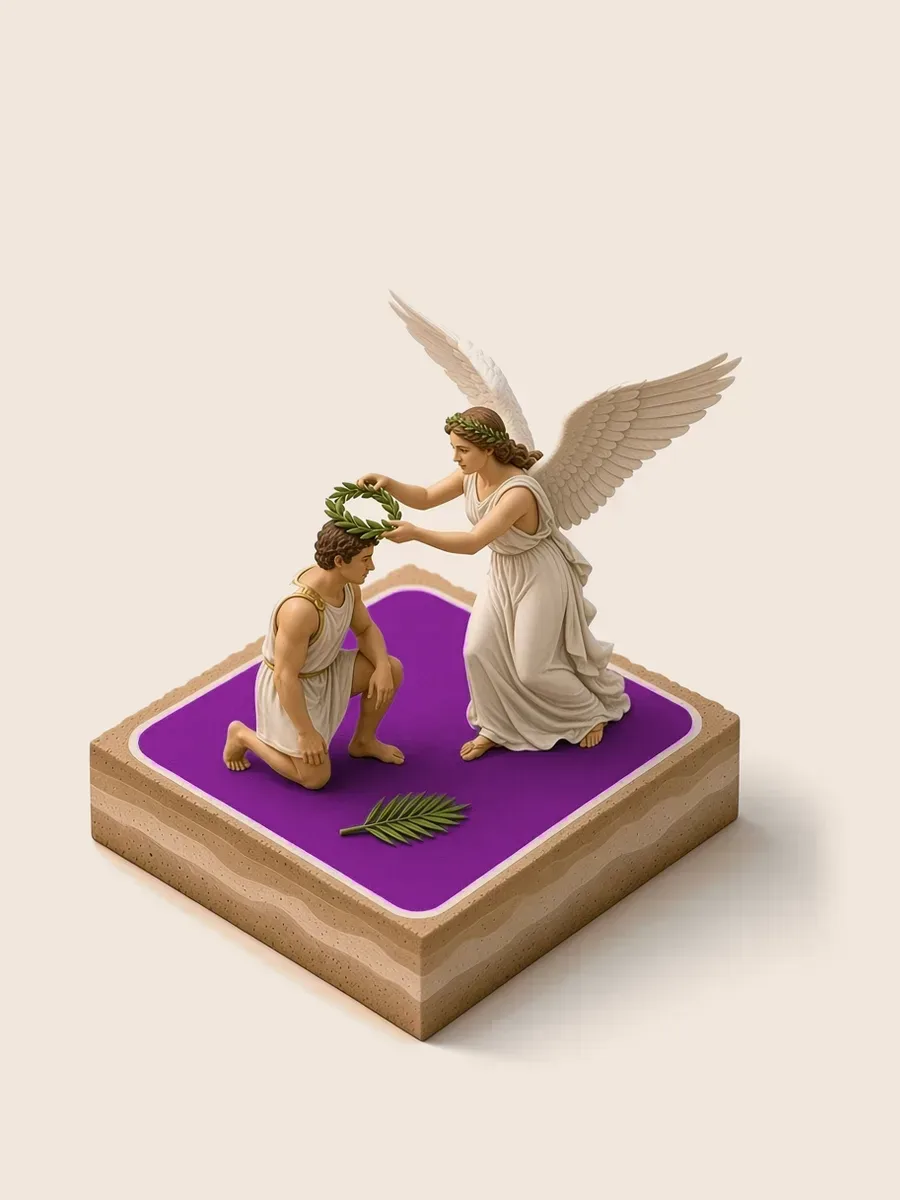
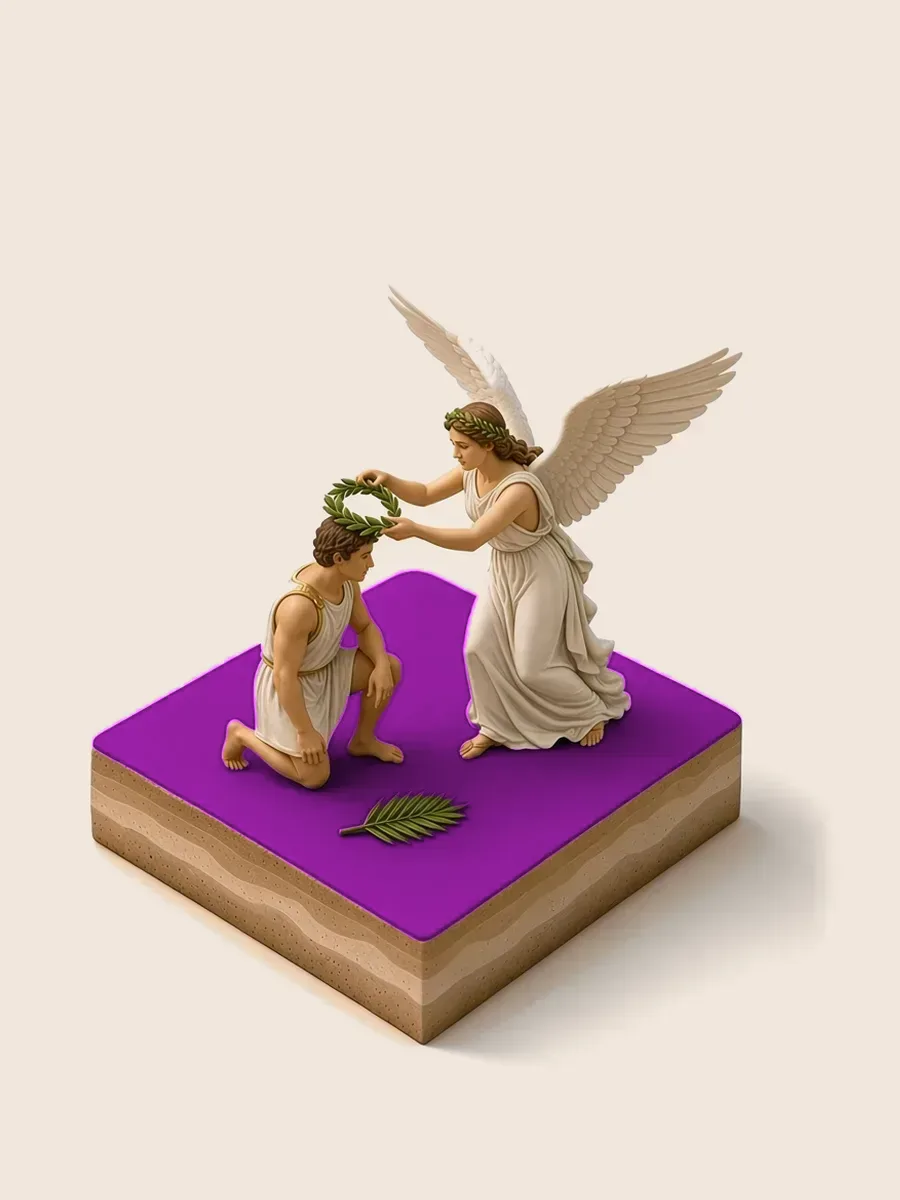
第七批插画：九张新卡，并重画 vinc。 (#10)
temp、ver、jud、jur、liber、grav、lev、fort、nav 换成插画。vinc 换成胜利女神戴冠的新图。有插画的词根一共 109 条。词条列表不改。

diff --git a/src/data/rootColors.ts b/src/data/rootColors.ts
@@ -107,10 +107,19 @@ export const rootColors: Record<string, RootColor> = {
   terr: { hue: 35.4, accent: '#D78671', deep: '#7E4334', wash: '#FFEBE5', skyTop: '#FFE0D8', skyBottom: '#FEF5ED', spark: '#88CADA', steps: ['#FEF9F8', '#FCF3F1', '#FFEBE5', '#FFE4DD', '#FEDAD1', '#FCCFC3', '#F2B5A5', '#E39A87', '#D78671', '#B9705D', '#7E4334', '#542B21'] },
   tort: { hue: 44.8, accent: '#D48866', deep: '#7C452B', wash: '#FFEBE3', skyTop: '#FFE1D3', skyBottom: '#FDF6EC', spark: '#8CC8E0', steps: ['#FEF9F8', '#FCF3F0', '#FFEBE3', '#FEE5DA', '#FDDBCD', '#FAD0BE', '#F0B79E', '#E19D7E', '#D48866', '#B77354', '#7C452B', '#532D1B'] },
   val: { hue: 144.9, accent: '#73AF75', deep: '#356237', wash: '#E6F5E6', skyTop: '#D8EFD8', skyBottom: '#EDFAF6', spark: '#D5AFD7', steps: ['#F8FBF8', '#F1F7F1', '#E6F5E6', '#DEF1DE', '#D3EBD2', '#C5E4C5', '#A8D3A8', '#8ABF8B', '#73AF75', '#5F9661', '#356237', '#224123'] },
-  vinc: { hue: 324.3, accent: '#BF87C3', deep: '#6D4470', wash: '#F9EAF9', skyTop: '#F6DFF7', skyBottom: '#FFF3F7', spark: '#A3CAA2', steps: ['#FCF9FC', '#F9F3F9', '#F9EAF9', '#F6E4F7', '#F2DAF3', '#EDCFEF', '#DFB6E1', '#CD9BD0', '#BF87C3', '#A472A8', '#6D4470', '#482C4A'] },
+  vinc: { hue: 323.8, accent: '#BE87C3', deep: '#6C4470', wash: '#F9EAFA', skyTop: '#F6DFF7', skyBottom: '#FFF3F7', spark: '#A3CAA1', steps: ['#FCF9FC', '#F9F3F9', '#F9EAFA', '#F6E4F7', '#F2DAF4', '#EDCFEF', '#DEB6E2', '#CC9BD1', '#BE87C3', '#A472A8', '#6C4470', '#482C4B'] },
   viv: { hue: 139.3, accent: '#7BAE6E', deep: '#3B6131', wash: '#E8F4E4', skyTop: '#DBEFD5', skyBottom: '#EEFAF5', spark: '#D2B0DB', steps: ['#F9FBF8', '#F2F7F1', '#E8F4E4', '#E0F0DC', '#D5EBD0', '#C9E4C2', '#ADD2A4', '#91BE85', '#7BAE6E', '#67955B', '#3B6131', '#26401F'] },
   volv: { hue: 90.4, accent: '#CBAE5E', deep: '#695305', wash: '#F6F0DD', skyTop: '#F2E7CA', skyBottom: '#F5F8ED', spark: '#ACBCEC', steps: ['#FCFAF7', '#F8F5EE', '#F6F0DD', '#F3EAD3', '#EEE3C4', '#E8DAB2', '#D8C48E', '#C5AD69', '#CBAE5E', '#9D843A', '#695305', '#453609'] },
   fid: { hue: 257.4, accent: '#74A0DF', deep: '#365684', wash: '#E7F1FF', skyTop: '#DAE9FF', skyBottom: '#F6F6FF', spark: '#D7B98B', steps: ['#F8FBFE', '#F1F6FC', '#E7F1FF', '#DFECFF', '#D3E5FF', '#C4DCFF', '#A7C8F7', '#8AB1E9', '#74A0DF', '#6088C1', '#365684', '#223958'] },
+  temp: { hue: 197.4, accent: '#37B2B5', deep: '#006264', wash: '#DEF5F6', skyTop: '#CAF1F1', skyBottom: '#EDF9FF', spark: '#E7ACAD', steps: ['#F7FBFC', '#EEF8F8', '#DEF5F6', '#D3F2F2', '#C4ECED', '#B1E6E7', '#89D5D7', '#5FC1C4', '#37B2B5', '#22989B', '#006264', '#004143'] },
+  ver: { hue: 95.8, accent: '#C5B15F', deep: '#655506', wash: '#F5F0DE', skyTop: '#F0E8CB', skyBottom: '#F4F9EE', spark: '#B1BBEB', steps: ['#FBFAF7', '#F7F6EE', '#F5F0DE', '#F1EBD3', '#EBE4C5', '#E5DBB3', '#D4C68E', '#C1AF6A', '#C5B15F', '#98863A', '#655506', '#42380A'] },
+  jud: { hue: 264.4, accent: '#7D9DE0', deep: '#3D5485', wash: '#E9F0FF', skyTop: '#DDE8FF', skyBottom: '#F7F5FF', spark: '#D3BB8A', steps: ['#F9FAFE', '#F2F6FC', '#E9F0FF', '#E1EBFF', '#D6E4FF', '#C9DBFF', '#AEC6F7', '#92AFEA', '#7D9DE0', '#6985C2', '#3D5485', '#283759'] },
+  jur: { hue: 162.9, accent: '#59B38B', deep: '#1C6448', wash: '#E2F5EB', skyTop: '#D1F1E0', skyBottom: '#ECFAF9', spark: '#DFACCA', steps: ['#F8FBF9', '#F0F8F3', '#E2F5EB', '#D9F2E5', '#CBEDDB', '#BBE6D0', '#99D6B8', '#76C29E', '#59B38B', '#479975', '#1C6448', '#11422F'] },
+  liber: { hue: 26.1, accent: '#D8847C', deep: '#7E413C', wash: '#FFEAE8', skyTop: '#FFDFDC', skyBottom: '#FFF5EE', spark: '#87CBD4', steps: ['#FEF9F9', '#FCF3F2', '#FFEAE8', '#FFE4E0', '#FED9D5', '#FCCDC8', '#F3B4AC', '#E49991', '#D8847C', '#BA6E67', '#7E413C', '#542A27'] },
+  grav: { hue: 321.1, accent: '#BC88C6', deep: '#6B4572', wash: '#F8EBFA', skyTop: '#F5E0F8', skyBottom: '#FFF3F8', spark: '#A5CA9F', steps: ['#FCF9FC', '#F9F3FA', '#F8EBFA', '#F5E4F8', '#F1DBF5', '#EBCFF1', '#DDB6E4', '#CA9CD3', '#BC88C6', '#A272AA', '#6B4572', '#472D4C'] },
+  lev: { hue: 89.2, accent: '#CCAE5E', deep: '#695205', wash: '#F6EFDD', skyTop: '#F2E7CA', skyBottom: '#F5F8ED', spark: '#ABBCEC', steps: ['#FCFAF7', '#F8F5EE', '#F6EFDD', '#F3EAD3', '#EEE3C4', '#E9D9B2', '#D9C48E', '#C6AD69', '#CCAE5E', '#9E833A', '#695205', '#453609'] },
+  fort: { hue: 75.5, accent: '#D8A861', deep: '#724D0B', wash: '#FAEEDE', skyTop: '#F8E5CB', skyBottom: '#F8F8EC', spark: '#A0C0EB', steps: ['#FCFAF7', '#F9F5EE', '#FAEEDE', '#F8E8D4', '#F4E0C5', '#F0D6B3', '#E2C08F', '#D1A76B', '#D8A861', '#A97E3D', '#724D0B', '#4B330C'] },
+  nav: { hue: 254.0, accent: '#6FA1DE', deep: '#325784', wash: '#E6F1FF', skyTop: '#D9EAFF', skyBottom: '#F5F6FF', spark: '#D9B88C', steps: ['#F8FBFE', '#F1F6FC', '#E6F1FF', '#DEECFF', '#D1E5FF', '#C2DDFE', '#A4C9F6', '#86B2E9', '#6FA1DE', '#5C89C0', '#325784', '#203958'] },
 };
 
 export function hasSampledColor(id: string): boolean {

diff --git a/src/lib/match.test.ts b/src/lib/match.test.ts
@@ -13,12 +13,12 @@ const authored = illustrated.filter((root) => !batchIllustrated.has(root.id));
 const batch = illustrated.filter((root) => batchIllustrated.has(root.id));
 
 describe('dataset', () => {
-  it('ships about 250 roots, with 100 paintings and the original 42 still fully written', () => {
+  it('ships about 250 roots, with 109 paintings and the original 42 still fully written', () => {
     expect(roots.length).toBe(250);
-    expect(illustrated).toHaveLength(100);
+    expect(illustrated).toHaveLength(109);
     expect(authored).toHaveLength(42);
-    expect(batch).toHaveLength(58);
-    expect(cream.length).toBe(roots.length - 100);
+    expect(batch).toHaveLength(67);
+    expect(cream.length).toBe(roots.length - 109);
     const words = roots.flatMap((root) => root.words.map((word) => word.word.toLowerCase()));
     expect(words.length).toBeGreaterThanOrEqual(300);
     expect(new Set(words).size).toBe(words.length);
@@ -123,6 +123,8 @@ describe('lookup', () => {
     expect(lookup('novel')).toMatchObject({ kind: 'word', hit: { word: 'novel', root: { id: 'nov', illustrated: true } } });
     expect(lookup('section')).toMatchObject({ kind: 'word', hit: { word: 'section', root: { id: 'sec', illustrated: true } } });
     expect(lookup('terrain')).toMatchObject({ kind: 'word', hit: { word: 'terrain', root: { id: 'terr', illustrated: true } } });
+    expect(lookup('temporary')).toMatchObject({ kind: 'word', hit: { word: 'temporary', root: { id: 'temp', illustrated: true } } });
+    expect(lookup('lever')).toMatchObject({ kind: 'word', hit: { word: 'lever', root: { id: 'lev', illustrated: true } } });
     expect(lookup('compose')).toMatchObject({ kind: 'word', hit: { word: 'compose', root: { id: 'pos' } } });
     expect(lookup('microbe')).toMatchObject({ kind: 'word', hit: { root: { id: 'micro', illustrated: false } } });
     expect(lookup('ped')).toMatchObject({ kind: 'root', root: { id: 'ped', illustrated: true } });

diff --git a/src/data/provisional.ts b/src/data/provisional.ts
@@ -83,6 +83,15 @@ export const batchIllustrated = new Set([
   'viv',
   'volv',
   'fid',
+  'temp',
+  'ver',
+  'jud',
+  'jur',
+  'liber',
+  'grav',
+  'lev',
+  'fort',
+  'nav',
 ]);
 
 const batchAlt: Record<string, string> = {
@@ -140,10 +149,19 @@ const batchAlt: Record<string, string> = {
   terr: '农夫站在一层层陶土色的梯田上。',
   tort: '一个人把铜色的绳子拧成一支火把。',
   val: '两个人握手告别，旁边是一面很大的翠绿盾。',
-  vinc: '长翅膀的胜利女神在紫色的高台上给胜利者戴冠。',
+  vinc: '长翅膀的胜利女神把月桂冠戴在跪着的胜利者头上，紫色的地面上落着一片棕榈叶。',
   viv: '浇过水之后，绿色的植物重新活过来，旁边还留着一截枯茎。',
   volv: '一大卷纸莎草在底座上展开。',
   fid: '蓝宝石色的祭坛前，两个人握手，旁边有一只忠诚的狗。',
+  temp: '一只青色的大碗像钟面，一个人把木杆插进中央的孔里。',
+  ver: '井里的人举起一面金镜子，井沿上放着一枚打了勾的金币。',
+  jud: '白发的人坐在雕花椅子上，两个年轻人站在蓝色的地面上。',
+  jur: '几个人举起右手，绿色的地面中间放着一张石桌。',
+  liber: '一个人把红帽子戴到另一个人头上，地上躺着断开的锁链。',
+  grav: '一个人背着巨大的紫色袋子，旁边一颗紫色的果子往下掉。',
+  lev: '一个人压下金色的杠杆，把另一头的石球抬起来。',
+  fort: '黄色的城墙上站着持盾的人，墙下有人把手放在同伴肩上。',
+  nav: '蓝色的海上，一个人在帆船里用桨划过一座小岛。',
 };
 
 function originOf(language: string): Origin {

diff --git a/README.md b/README.md
@@ -67,7 +67,7 @@ python3 scripts/depth_maps.py
 
 插画与代码都按 [MIT](LICENSE) 授权。
 
-图鉴里现在有 250 条词根。100 条有插画；其余先用奶油色卡片，词源故事已经写上，插画以后一张张补。
+图鉴里现在有 250 条词根。109 条有插画；其余先用奶油色卡片，词源故事已经写上，插画以后一张张补。
 
 ## 如何增加一条词根
 
